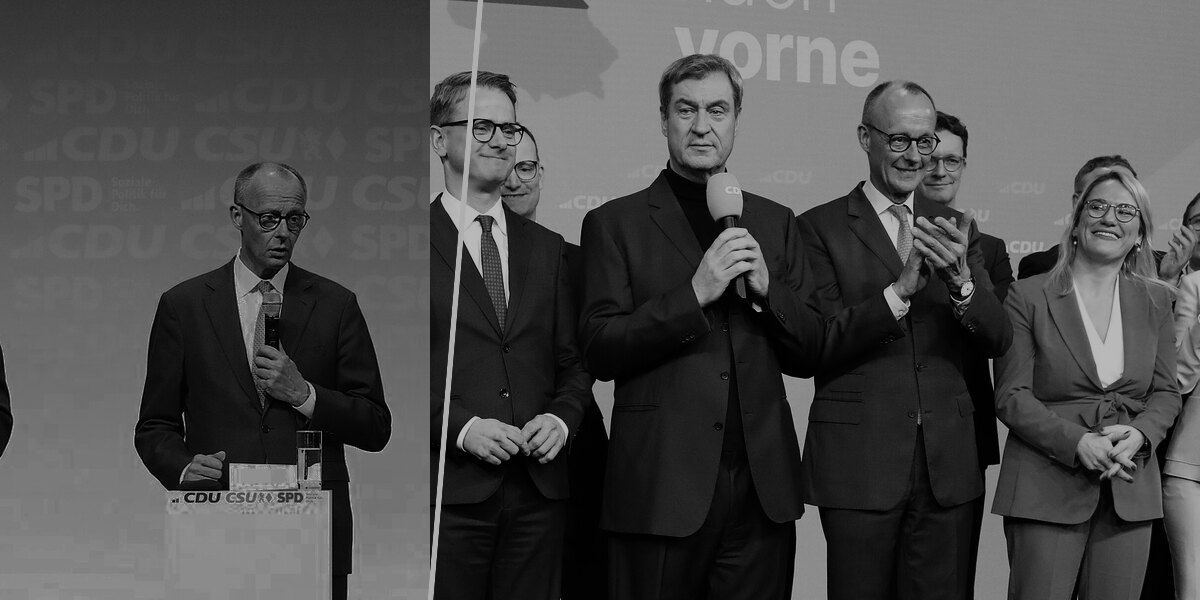
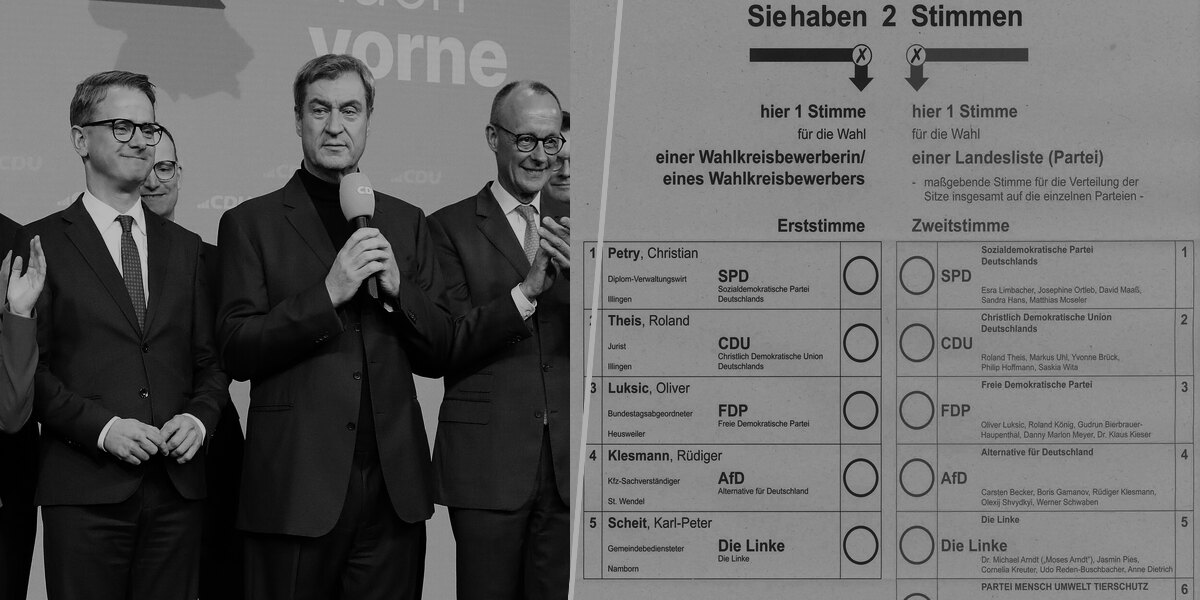
Union post: stage + ballot header, caption and reading example in one block, value-only hover on dot plots

diff --git a/_pages/union-verluste-2026-de.md b/_pages/union-verluste-2026-de.md
@@ -24,7 +24,7 @@ Entwurf: Dieser Beitrag ist noch nicht veröffentlicht. Alle Texte sind Platzhal
 
 <figure class="ltw-header ltw-hero">
 
-<img src="/images/union26_header.jpg" style="object-position: left center" alt="Schwarz-weiß-Montage: links Friedrich Merz und Markus Söder am Rednerpult bei der Vorstellung des Koalitionsvertrags im Mai 2025, rechts Söder, Merz und weitere CDU-Politiker auf der Bühne am Wahlabend im Februar 2025"/>
+<img src="/images/union26_header.jpg" style="object-position: left center" alt="Schwarz-weiß-Montage: links Carsten Linnemann, Markus Söder, Friedrich Merz und Hendrik Wüst auf der Bühne am CDU-Wahlabend im Februar 2025, rechts der Kopf eines Stimmzettels zur Bundestagswahl 2025 mit Erst- und Zweitstimme"/>
 
 <div class="ltw-hero-shade"></div>
 
@@ -38,7 +38,7 @@ Wohin die Union ihre Wähler verliert –<br>und wen sie zurückholen kann
 
 <p class="ltw-photo-credit">
 
-Fotos: links <a href="https://commons.wikimedia.org/wiki/File:2025-05-05_Unterzeichnung_des_Koalitionsvertrages_der_21._Wahlperiode_des_Bundestages_(Martin_Rulsch)_072.jpg">Martin Rulsch</a> (Vorstellung des Koalitionsvertrags, 5. Mai 2025), rechts <a href="https://commons.wikimedia.org/wiki/File:2025-02-23_Bundestagswahl_%E2%80%93_Wahlabend_CDU_by_Sandro_Halank%E2%80%93013.jpg">Sandro Halank</a> (CDU-Wahlabend im Konrad-Adenauer-Haus, 23. Februar 2025), beide Wikimedia Commons, <a href="https://creativecommons.org/licenses/by-sa/4.0/deed.de">CC BY-SA 4.0</a>; Montage, zugeschnitten, schwarz-weiß
+Fotos: links <a href="https://commons.wikimedia.org/wiki/File:2025-02-23_Bundestagswahl_%E2%80%93_Wahlabend_CDU_by_Sandro_Halank%E2%80%93013.jpg">Sandro Halank</a> (CDU-Wahlabend im Konrad-Adenauer-Haus, 23. Februar 2025), rechts <a href="https://commons.wikimedia.org/wiki/File:BTW_2025_Stimmzettel_WK_298.jpg">Simon Mannweiler</a> (Stimmzettel zur Bundestagswahl 2025, Wahlkreis 298), beide Wikimedia Commons, <a href="https://creativecommons.org/licenses/by-sa/4.0/deed.de">CC BY-SA 4.0</a>; Montage, zugeschnitten, schwarz-weiß
 
 </p>
 
@@ -62,8 +62,7 @@ von <strong><a href="https://juliuskoelzer.de/">Julius Kölzer</a></strong> · O
 
 <figure class="ltw-plotly">
 <div id="union26-sankey" class="union26-chart" style="height: 520px;"></div>
-<figcaption>Unionswähler der Bundestagswahl 2025 nach ihrer Wahlabsicht im April 2026 (n = 2.326). Gezeigt sind nur Abgänge; hinzugewonnene Wähler sind wegen zu kleiner Fallzahlen nicht betrachtet. Unentschieden = „weiß nicht“. Prozent gewichtet, n ungewichtet.</figcaption>
-<p class="ltw-lesebeispiel"><b>Lesebeispiel:</b> 7,7 Prozent der Menschen, die 2025 CDU/CSU gewählt haben, wollen im April 2026 AfD wählen. Das sind 195 Befragte.</p>
+<figcaption>Unionswähler der Bundestagswahl 2025 nach ihrer Wahlabsicht im April 2026 (n = 2.326). Gezeigt sind nur Abgänge; hinzugewonnene Wähler sind wegen zu kleiner Fallzahlen nicht betrachtet. Unentschieden = „weiß nicht“. Prozent gewichtet, n ungewichtet. <span class="union26-lese"><b>Lesebeispiel:</b> 7,7 Prozent der Menschen, die 2025 CDU/CSU gewählt haben, wollen im April 2026 AfD wählen. Das sind 195 Befragte.</span></figcaption>
 </figure>
 
 ## 2. Wer bleibt, wer geht? Die Soziodemografie
@@ -74,8 +73,7 @@ von <strong><a href="https://juliuskoelzer.de/">Julius Kölzer</a></strong> · O
 
 <figure class="ltw-plotly">
 <div id="union26-demografie" class="union26-chart" style="height: 980px;"></div>
-<figcaption>Zusammensetzung der vier Gruppen nach acht soziodemografischen Merkmalen aus den Profilwellen. Je Balken 100 Prozent; Kategorien im Kopf jedes Feldes von hell nach dunkel.</figcaption>
-<p class="ltw-lesebeispiel"><b>Lesebeispiel:</b> Unter den Unentschiedenen sind 62 Prozent Frauen und 38 Prozent Männer. Unter denen, die bei der Union bleiben, sind es 43 Prozent Frauen.</p>
+<figcaption>Zusammensetzung der vier Gruppen nach acht soziodemografischen Merkmalen aus den Profilwellen. Je Balken 100 Prozent; Kategorien im Kopf jedes Feldes von hell nach dunkel. <span class="union26-lese"><b>Lesebeispiel:</b> Unter den Unentschiedenen sind 62 Prozent Frauen und 38 Prozent Männer. Unter denen, die bei der Union bleiben, sind es 43 Prozent Frauen.</span></figcaption>
 </figure>
 
 ## 3. Wer bleibt, wer geht? Die Einstellungen
@@ -84,56 +82,49 @@ von <strong><a href="https://juliuskoelzer.de/">Julius Kölzer</a></strong> · O
 
 <figure class="ltw-plotly">
 <div id="union26-bewertung" class="union26-chart" style="height: 760px;"></div>
-<figcaption>Durchschnittliche Bewertung auf der Skala von −5 bis +5. CDU/CSU: Mittel aus den getrennt erfragten Bewertungen von CDU und CSU.</figcaption>
-<p class="ltw-lesebeispiel"><b>Lesebeispiel:</b> Wer zur AfD gewechselt ist, bewertet Friedrich Merz im Schnitt mit −2,1 auf der Skala von −5 bis +5. Wer bei der Union bleibt, bewertet ihn mit +2,0.</p>
+<figcaption>Durchschnittliche Bewertung auf der Skala von −5 bis +5. CDU/CSU: Mittel aus den getrennt erfragten Bewertungen von CDU und CSU. <span class="union26-lese"><b>Lesebeispiel:</b> Wer zur AfD gewechselt ist, bewertet Friedrich Merz im Schnitt mit −2,1 auf der Skala von −5 bis +5. Wer bei der Union bleibt, bewertet ihn mit +2,0.</span></figcaption>
 </figure>
 
 [Platzhalter] Bei den Aussagen zu Politik und Demokratie zeigt sich das Muster noch einmal: Die AfD-Wechsler stimmen populistischen Aussagen weit häufiger zu, fühlen sich häufiger abgehängt und wollen Gesetze auch mit AfD-Stimmen beschließen. Die Unentschiedenen liegen in vielen Fragen zwischen den Bleibenden und den AfD-Wechslern.
 
 <figure class="ltw-plotly">
 <div id="union26-zust-politik" class="union26-chart" style="height: 680px;"></div>
-<figcaption>Anteil, der der Aussage (eher) zustimmt. Skala von 1 (stimme überhaupt nicht zu) bis 5 (stimme voll und ganz zu); gezeigt: 4 und 5.</figcaption>
-<p class="ltw-lesebeispiel"><b>Lesebeispiel:</b> 87 Prozent der AfD-Wechsler finden, dass Gesetze in wichtigen Sachfragen auch mit Stimmen der AfD beschlossen werden sollten. Unter den Bleibenden sind es 44 Prozent.</p>
+<figcaption>Anteil, der der Aussage (eher) zustimmt. Skala von 1 (stimme überhaupt nicht zu) bis 5 (stimme voll und ganz zu); gezeigt: 4 und 5. <span class="union26-lese"><b>Lesebeispiel:</b> 87 Prozent der AfD-Wechsler finden, dass Gesetze in wichtigen Sachfragen auch mit Stimmen der AfD beschlossen werden sollten. Unter den Bleibenden sind es 44 Prozent.</span></figcaption>
 </figure>
 
 [Platzhalter] In den Sachfragen sind die Unterschiede kleiner. Beim Bürgergeld, bei der Ukraine-Hilfe und bei den Schulden gehen die Gruppen auseinander, bei Mietpreisen, Preisobergrenzen und Verteidigungsausgaben liegen sie nah beieinander.
 
 <figure class="ltw-plotly">
 <div id="union26-zust-sach" class="union26-chart" style="height: 760px;"></div>
-<figcaption>Anteil, der der Aussage (eher) zustimmt. Skala von 1 bis 5; gezeigt: 4 und 5.</figcaption>
-<p class="ltw-lesebeispiel"><b>Lesebeispiel:</b> 72 Prozent der AfD-Wechsler wollen das Bürgergeld deutlich absenken, aber nur 33 Prozent derjenigen, die zu SPD oder Grünen gewechselt sind.</p>
+<figcaption>Anteil, der der Aussage (eher) zustimmt. Skala von 1 bis 5; gezeigt: 4 und 5. <span class="union26-lese"><b>Lesebeispiel:</b> 72 Prozent der AfD-Wechsler wollen das Bürgergeld deutlich absenken, aber nur 33 Prozent derjenigen, die zu SPD oder Grünen gewechselt sind.</span></figcaption>
 </figure>
 
 [Platzhalter] Auf den Positionsskalen zwischen zwei Polen steht die AfD-Gruppe fast überall am Rand: beim Zuzug, bei den Sanktionen gegen Russland und bei den Waffenlieferungen an die Ukraine. Die Wechsler zu SPD und Grünen stehen bei Sozialstaat und Klimaschutz etwas links der Bleibenden.
 
 <figure class="ltw-plotly">
 <div id="union26-positionen" class="union26-chart" style="height: 380px;"></div>
-<figcaption>Durchschnittliche Position auf der Skala von 1 bis 7 zwischen zwei gegensätzlichen Aussagen.</figcaption>
-<p class="ltw-lesebeispiel"><b>Lesebeispiel:</b> Beim Thema Zuwanderung stehen die AfD-Wechsler im Schnitt bei 6,5 auf der Skala von 1 („Zuwanderung erleichtern“) bis 7 („Zuwanderung einschränken“), also fast ganz am rechten Pol.</p>
+<figcaption>Durchschnittliche Position auf der Skala von 1 bis 7 zwischen zwei gegensätzlichen Aussagen. <span class="union26-lese"><b>Lesebeispiel:</b> Beim Thema Zuwanderung stehen die AfD-Wechsler im Schnitt bei 6,5 auf der Skala von 1 („Zuwanderung erleichtern“) bis 7 („Zuwanderung einschränken“), also fast ganz am rechten Pol.</span></figcaption>
 </figure>
 
 [Platzhalter] Das Vertrauen in die Institutionen ist bei den AfD-Wechslern eingebrochen: Rund die Hälfte vertraut Bundestag und Bundesregierung „überhaupt nicht“. Polizei und Bundesverfassungsgericht genießen dagegen in allen Gruppen mehrheitlich Vertrauen.
 
 <figure class="ltw-plotly">
 <div id="union26-vertrauen" class="union26-chart" style="height: 620px;"></div>
-<figcaption>Vertrauen in Institutionen auf der Skala von 1 (vertraue ich überhaupt nicht) bis 5 (vertraue ich voll und ganz).</figcaption>
-<p class="ltw-lesebeispiel"><b>Lesebeispiel:</b> 49 Prozent der AfD-Wechsler vertrauen der Bundesregierung „überhaupt nicht“ (dunkelroter Balkenteil). Unter den Bleibenden sind es 5 Prozent.</p>
+<figcaption>Vertrauen in Institutionen auf der Skala von 1 (vertraue ich überhaupt nicht) bis 5 (vertraue ich voll und ganz). <span class="union26-lese"><b>Lesebeispiel:</b> 49 Prozent der AfD-Wechsler vertrauen der Bundesregierung „überhaupt nicht“ (dunkelroter Balkenteil). Unter den Bleibenden sind es 5 Prozent.</span></figcaption>
 </figure>
 
 [Platzhalter] Auch bei Demokratiezufriedenheit, Gerechtigkeitsempfinden und der Einschätzung der wirtschaftlichen Lage heben sich die AfD-Wechsler ab. Gut die Hälfte von ihnen ist unzufrieden mit der Demokratie, drei Viertel halten die allgemeine Wirtschaftslage für schlecht.
 
 <figure class="ltw-plotly">
 <div id="union26-einzel" class="union26-chart" style="height: 720px;"></div>
-<figcaption>Anteil, der zustimmt: jeweils die beiden Stufen der Fünferskala in Richtung der genannten Aussage.</figcaption>
-<p class="ltw-lesebeispiel"><b>Lesebeispiel:</b> 54 Prozent der AfD-Wechsler sind unzufrieden oder sehr unzufrieden mit der Demokratie in Deutschland. Unter den Bleibenden sind es 9 Prozent.</p>
+<figcaption>Anteil, der zustimmt: jeweils die beiden Stufen der Fünferskala in Richtung der genannten Aussage. <span class="union26-lese"><b>Lesebeispiel:</b> 54 Prozent der AfD-Wechsler sind unzufrieden oder sehr unzufrieden mit der Demokratie in Deutschland. Unter den Bleibenden sind es 9 Prozent.</span></figcaption>
 </figure>
 
 [Platzhalter] Auf der Links-Rechts-Skala liegen alle vier Gruppen mit dem Gipfel knapp rechts der Mitte. Die AfD-Wechsler streuen aber deutlich weiter nach rechts, die Wechsler zu SPD und Grünen etwas nach links.
 
 <figure class="ltw-plotly">
 <div id="union26-lr" class="union26-chart" style="height: 620px;"></div>
-<figcaption>Links-Rechts-Selbsteinstufung von 1 (links) bis 11 (rechts), geglättet mit einer Kerndichteschätzung; gestrichelte Linie: Mittelwert.</figcaption>
-<p class="ltw-lesebeispiel"><b>Lesebeispiel:</b> Die AfD-Wechsler stufen sich im Schnitt bei 7,0 ein, die Wechsler zu SPD und Grünen bei 5,9. Je höher der Wert, desto weiter rechts.</p>
+<figcaption>Links-Rechts-Selbsteinstufung von 1 (links) bis 11 (rechts), geglättet mit einer Kerndichteschätzung; gestrichelte Linie: Mittelwert. <span class="union26-lese"><b>Lesebeispiel:</b> Die AfD-Wechsler stufen sich im Schnitt bei 7,0 ein, die Wechsler zu SPD und Grünen bei 5,9. Je höher der Wert, desto weiter rechts.</span></figcaption>
 </figure>
 
 ## 4. Merz und die Bundesregierung im Zeitverlauf
@@ -144,8 +135,7 @@ von <strong><a href="https://juliuskoelzer.de/">Julius Kölzer</a></strong> · O
 
 <figure class="ltw-plotly">
 <div id="union26-zeit" class="union26-chart" style="height: 640px;"></div>
-<figcaption>Dieselben Befragten in vier Panelwellen, gruppiert nach ihrer Wahlabsicht im April 2026. Mittelwert auf der Skala von −5 bis +5. Grau: Befragung vor Amtsantritt der neuen Bundesregierung. Regierungsarbeit der CDU/CSU erst ab Mai 2025 erfragt.</figcaption>
-<p class="ltw-lesebeispiel"><b>Lesebeispiel:</b> Die späteren AfD-Wechsler bewerteten Friedrich Merz kurz nach der Wahl im Februar/März 2025 noch mit +2,3. Im April 2026 liegt ihr Urteil bei −2,1.</p>
+<figcaption>Dieselben Befragten in vier Panelwellen, gruppiert nach ihrer Wahlabsicht im April 2026. Mittelwert auf der Skala von −5 bis +5. Grau: Befragung vor Amtsantritt der neuen Bundesregierung. Regierungsarbeit der CDU/CSU erst ab Mai 2025 erfragt. <span class="union26-lese"><b>Lesebeispiel:</b> Die späteren AfD-Wechsler bewerteten Friedrich Merz kurz nach der Wahl im Februar/März 2025 noch mit +2,3. Im April 2026 liegt ihr Urteil bei −2,1.</span></figcaption>
 </figure>
 
 ## 5. Wen kann die Union zurückholen?
@@ -156,8 +146,7 @@ von <strong><a href="https://juliuskoelzer.de/">Julius Kölzer</a></strong> · O
 
 <figure class="ltw-plotly">
 <div id="union26-rueckhol" class="union26-chart" style="height: 460px;"></div>
-<figcaption>Unionswähler von 2025, die im April 2026 nicht mehr Union wählen wollen, nach ihrer heutigen Wahlabsicht. Bewertung der Union auf der Skala von −5 bis +5: positiv = +1 bis +5, negativ = 0 bis −5.</figcaption>
-<p class="ltw-lesebeispiel"><b>Lesebeispiel:</b> Von den früheren Unionswählern, die heute SPD wählen wollen, sehen 73 Prozent die Union weiterhin positiv (n = 92). Von denen, die zur AfD gewechselt sind, sind es 48 Prozent.</p>
+<figcaption>Unionswähler von 2025, die im April 2026 nicht mehr Union wählen wollen, nach ihrer heutigen Wahlabsicht. Bewertung der Union auf der Skala von −5 bis +5: positiv = +1 bis +5, negativ = 0 bis −5. <span class="union26-lese"><b>Lesebeispiel:</b> Von den früheren Unionswählern, die heute SPD wählen wollen, sehen 73 Prozent die Union weiterhin positiv (n = 92). Von denen, die zur AfD gewechselt sind, sind es 48 Prozent.</span></figcaption>
 </figure>
 
 ## 6. Wo das Potenzial der Union heute steckt
@@ -168,8 +157,7 @@ von <strong><a href="https://juliuskoelzer.de/">Julius Kölzer</a></strong> · O
 
 <figure class="ltw-plotly">
 <div id="union26-potenzial" class="union26-chart" style="height: 460px;"></div>
-<figcaption>Aktuelle Nicht-Unionswähler, die die Union positiv bewerten (+1 bis +5), nach Wahlabsicht im April 2026. Balken summieren sich zu 100 Prozent. Schraffiert: Anteil, der 2025 Union gewählt hat.</figcaption>
-<p class="ltw-lesebeispiel"><b>Lesebeispiel:</b> 25 Prozent aller Menschen, die derzeit nicht Union wählen, sie aber positiv sehen, wollen SPD wählen. Davon haben 4 Prozentpunkte 2025 noch Union gewählt (schraffiert), 21 Prozentpunkte nicht.</p>
+<figcaption>Aktuelle Nicht-Unionswähler, die die Union positiv bewerten (+1 bis +5), nach Wahlabsicht im April 2026. Balken summieren sich zu 100 Prozent. Schraffiert: Anteil, der 2025 Union gewählt hat. <span class="union26-lese"><b>Lesebeispiel:</b> 25 Prozent aller Menschen, die derzeit nicht Union wählen, sie aber positiv sehen, wollen SPD wählen. Davon haben 4 Prozentpunkte 2025 noch Union gewählt (schraffiert), 21 Prozentpunkte nicht.</span></figcaption>
 </figure>
 
 ## Fazit
@@ -188,8 +176,9 @@ von <strong><a href="https://juliuskoelzer.de/">Julius Kölzer</a></strong> · O
 .ltw-article figure.ltw-plotly { padding: 14px 6px 10px 6px; }
 .ltw-article .union26-chart { width: 100%; }
 .ltw-article .union26-chart .js-plotly-plot { cursor: default; }
-.ltw-article .ltw-lesebeispiel { margin: 10px 6px 2px 6px; padding: 8px 12px; font-size: 0.86em; line-height: 1.5; color: #444;
+.ltw-article figure.ltw-plotly figcaption { margin: 10px 6px 2px 6px; padding: 8px 12px; font-size: 0.86em; line-height: 1.5; color: #444;
   background: #f1f5f9; border-left: 3px solid #2b5d8a; border-radius: 0 6px 6px 0; text-align: left; }
+.ltw-article figure.ltw-plotly figcaption .union26-lese { display: block; margin-top: 6px; }
 </style>
 
 {% include union26_data.html %}
@@ -212,7 +201,7 @@ document.addEventListener("DOMContentLoaded", function () {
   }
   /* readable hover box: dark background, white text, larger font */
   var hover = { bgcolor: "#1f1f1f", bordercolor: "#1f1f1f", font: { family: schrift, size: 14, color: "#ffffff" }, align: "left" };
-  var basis = { font: { family: schrift, color: ink, size: 13 }, paper_bgcolor: "white", plot_bgcolor: "white", hoverlabel: hover, hovermode: "closest" };
+  var basis = { font: { family: schrift, color: ink, size: 13 }, paper_bgcolor: "white", plot_bgcolor: "white", hoverlabel: hover, hovermode: "closest", separators: ",." };
   /* marker per group: SPD/Greens = red fill with green outline */
   function marker(g, size) {
     return g === "Zu SPD/Grünen" ? { color: "#d71f1d", size: size, line: { color: "#3f8f2f", width: 2.5 } }
@@ -303,8 +292,7 @@ document.addEventListener("DOMContentLoaded", function () {
     gruppen.forEach(function (g) {
       traces.push({ type: "scatter", mode: "markers", name: g, legendgroup: g,
         x: items.map(function (it) { return it.werte[g]; }), y: pos,
-        marker: marker(g, 11), customdata: items.map(function (it) { return [it.label, D.n[g]]; }),
-        hovertemplate: "<b>" + g + "</b><br>%{customdata[0]}<br>" + opt.fmt + "<br>n = %{customdata[1]}<extra></extra>" });
+        marker: marker(g, 11), hovertemplate: opt.fmt + "<extra></extra>" });
     });
     var lay = Object.assign({}, basis, {
       xaxis: Object.assign({ gridcolor: "#e6e6e6", fixedrange: true, zeroline: false }, opt.xaxis),
@@ -315,9 +303,9 @@ document.addEventListener("DOMContentLoaded", function () {
     Plotly.newPlot(id, traces, lay, cfg);
   }
   var pct = { range: [0, 100], tickvals: [0, 25, 50, 75, 100], ticksuffix: " %" };
-  dotPlot("union26-zust-politik", D.zustimmung.politik, { blocks: true, fmt: "%{x:.0f} % stimmen zu", xaxis: pct });
-  dotPlot("union26-zust-sach", D.zustimmung.sachfragen, { blocks: true, fmt: "%{x:.0f} % stimmen zu", xaxis: pct });
-  dotPlot("union26-bewertung", D.bewertung, { blocks: true, fmt: "Ø %{x:+.1f}",
+  dotPlot("union26-zust-politik", D.zustimmung.politik, { blocks: true, fmt: "%{x:.0f} %", xaxis: pct });
+  dotPlot("union26-zust-sach", D.zustimmung.sachfragen, { blocks: true, fmt: "%{x:.0f} %", xaxis: pct });
+  dotPlot("union26-bewertung", D.bewertung, { blocks: true, fmt: "%{x:+.1f}",
     xaxis: { range: [-5, 5], tickvals: [-5, -4, -3, -2, -1, 0, 1, 2, 3, 4, 5], ticktext: ["−5", "−4", "−3", "−2", "−1", "0", "+1", "+2", "+3", "+4", "+5"] },
     shapes: [{ type: "rect", xref: "x", yref: "paper", x0: 0, x1: 5, y0: 0, y1: 1, fillcolor: "#f5f5f5", line: { width: 0 }, layer: "below" },
              { type: "line", xref: "x", yref: "paper", x0: 0, x1: 0, y0: 0, y1: 1, line: { color: ink3, width: 1 } }] });
@@ -328,8 +316,7 @@ document.addEventListener("DOMContentLoaded", function () {
     var traces = it.map(function (p, i) { return { type: "scatter", mode: "lines", x: [1, 7], y: [pos[i], pos[i]], line: { color: "#d9d9d9", width: 9 }, hoverinfo: "skip", showlegend: false }; });
     gruppen.forEach(function (g) {
       traces.push({ type: "scatter", mode: "markers", name: g, x: it.map(function (p) { return p.werte[g]; }), y: pos, marker: marker(g, 13),
-        customdata: it.map(function (p) { return [p.links, p.rechts, D.n[g]]; }),
-        hovertemplate: "<b>" + g + "</b><br>%{customdata[0]} (1) … %{customdata[1]} (7)<br>Ø %{x:.1f}<br>n = %{customdata[2]}<extra></extra>" });
+        hovertemplate: "%{x:.1f}<extra></extra>" });
     });
     Plotly.newPlot("union26-positionen", traces, Object.assign({}, basis, {
       xaxis: { range: [0.7, 7.3], tickvals: [1, 2, 3, 4, 5, 6, 7], showgrid: false, fixedrange: true, tickfont: { color: ink3 } },
